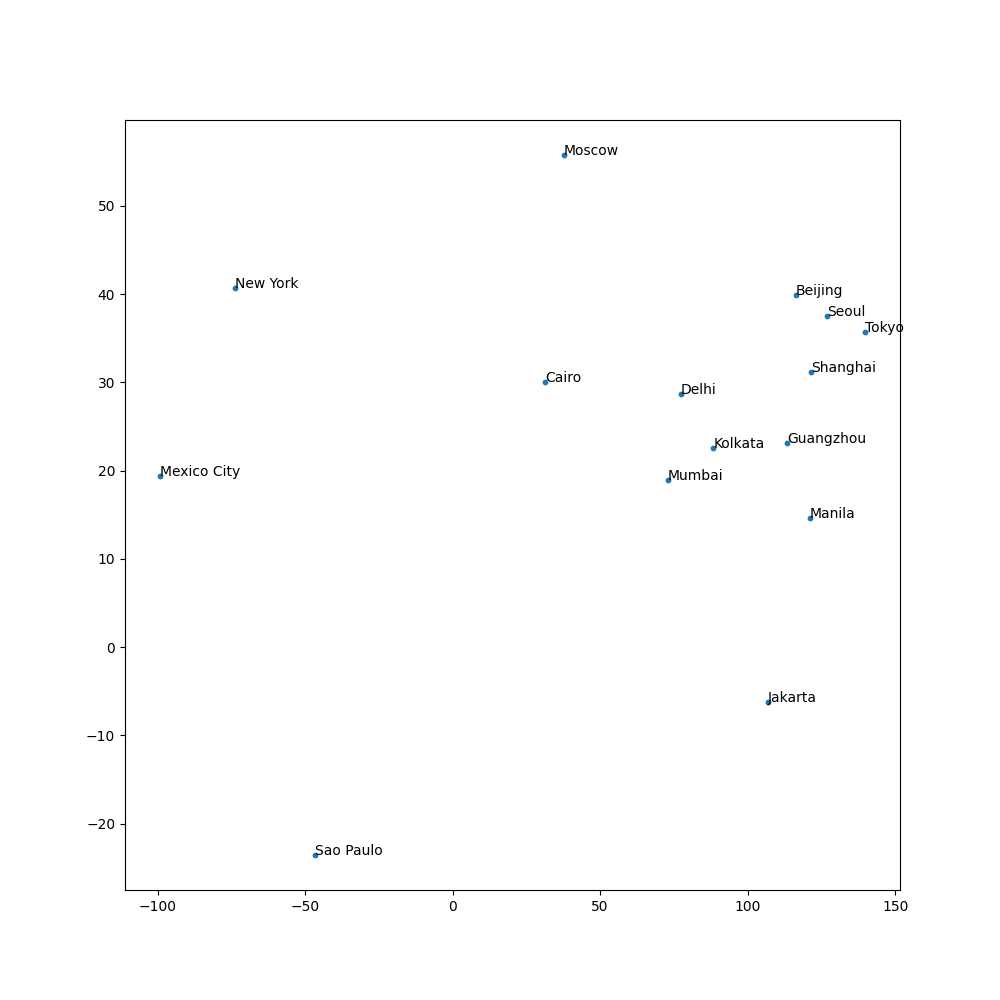
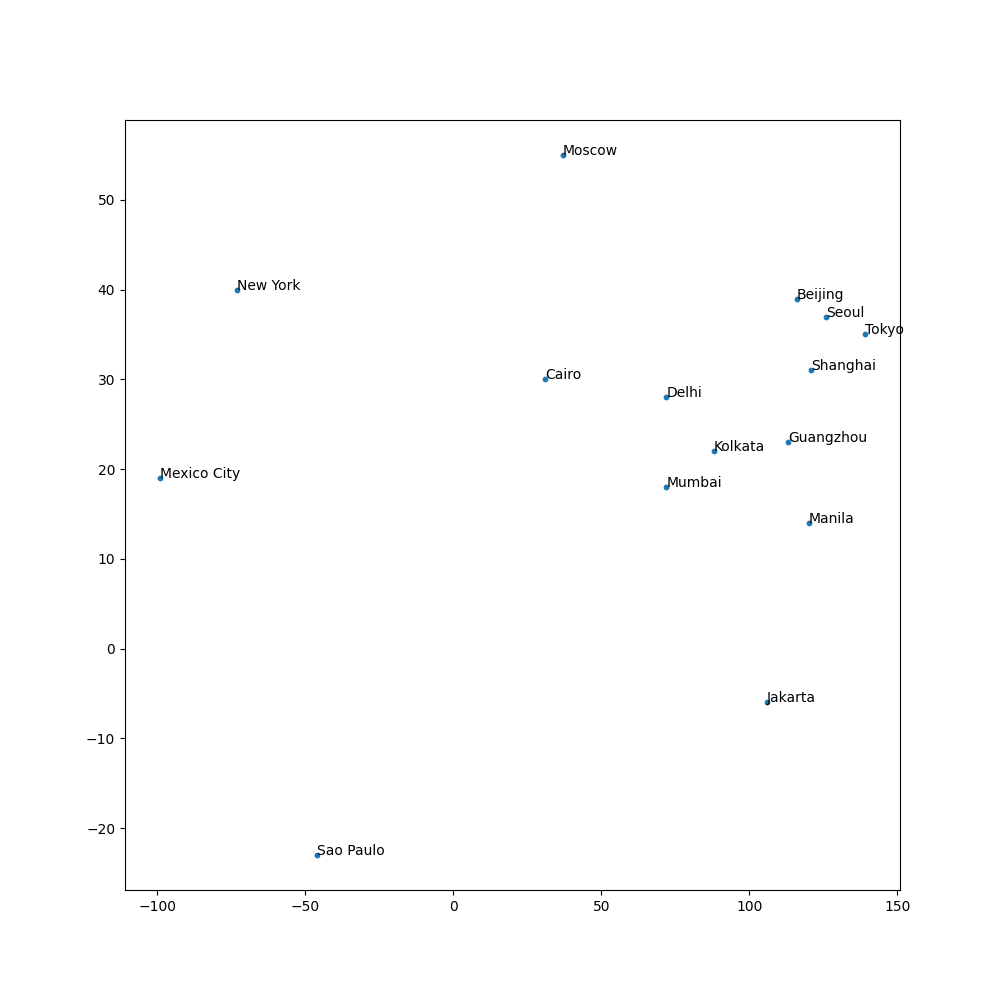
Simple mutation functionality added

diff --git a/genetic_algo.py b/genetic_algo.py
@@ -4,15 +4,21 @@
 import random
 import copy
 
+INIT_POPULATION_SIZE = 20
+MUTATION_PROB = 0.7
+
 def select_parents(population,fitness):
     parents = []
+    fit = [1- w for w in fitness]
     for i in range(len(population)//2):
         parent_pair = random.choices(population,weights=fitness,k=2)
+        while(parent_pair[0] == parent_pair[1]):
+            parent_pair = random.choices(population,weights=fitness,k=2)
         parents.append(parent_pair)
     
     return parents
 
-def crossover(parents):
+def crossoverPairWise(parents):
     # trying to implement two point crossover with replacement (TPXwR)
     # research paper source - https://www.scitepress.org/papers/2015/55902/55902.pdf
     p1 = parents[0]
@@ -87,11 +93,7 @@ def crossover(parents):
                 break
     return [child1,child2]
 
-def fitness_function(population):
-    fitness_values = []
-    fitness_values_scaled = []
-
-    def fitness_function_calc(route):
+def fitness_function_calc(route):
         # given a route, calculate the cost incurred
         
         cost = 0
@@ -100,24 +102,62 @@ def fitness_function(population):
         cost+=route[-1].distanceFrom(route[0])
         return cost
 
+def fitness_function(population):
+    fitness_values = []
+    fitness_values_scaled = []
+
+
     for i in range(len(population)):
         fitness_value = fitness_function_calc(population[i])
-        fitness_values.append(fitness_value)
+        fitness_values.append(1 / fitness_value)
 
     # scale it between 0 to 1
-    weights = [1.0 / w for w in fitness_values]           # Invert all weights
-    sum_weights = sum(weights)
+    sum_weights = sum(fitness_values)
     # print(weights)
-    fitness_values_scaled = [w / sum_weights for w in weights]  # Normalize weights
-    return fitness_values_scaled
+    fitness_values_scaled = [(w / sum_weights) for w in fitness_values]  # Normalize weights
+    return fitness_values
     
     
 def generate_random_route(cities):
     return random.sample(cities,len(cities))
 
 
-def generate_random_population(size,city_list):
+def generate_random_population(size,city_list,src):
+    # generate population such that all individuals begin with src
     population = []
     for i in range(size):
-        population.append(generate_random_route(city_list))
+        route = generate_random_route(city_list)
+        route.remove(src) 
+        route.insert(0,src) # add the source city at the beginning
+        population.append(route)
+    # print(population)
     return population
+
+def generateChildPop(parentPop,fitnessValues):
+    childPop = []
+
+    for i in range(INIT_POPULATION_SIZE//2):
+        parents = select_parents(parentPop,fitnessValues)
+        children = crossoverPairWise(parents[i])
+        childrenMutated1 = mutate(copy.deepcopy(children[0]))
+        childrenMutated2 = mutate(copy.deepcopy(children[1]))
+        childPop.extend([childrenMutated1,childrenMutated2])
+    return childPop
+
+
+
+
+def mutate(population):
+    # simple TWORS mutation which swaps any two cities
+    prob = random.random()
+    if prob<MUTATION_PROB:
+        # print("Mutation occured")
+        i = random.randint(1,len(population)-1)
+        
+        j = random.randint(1,len(population)-1)
+        if i==0 or j==0:
+            print("NOOOOOOOOO")
+        while(i==j):
+            j = random.randint(0,len(population)-1)
+        population[i],population[j] = population[j],population[i]
+    return population 

diff --git a/main.py b/main.py
@@ -1,18 +1,19 @@
-from genetic_algo import generate_random_population,fitness_function, select_parents
+from genetic_algo import fitness_function_calc, generate_random_population,fitness_function, generateChildPop, select_parents,INIT_POPULATION_SIZE
 from input import getInputFromFile
+from models import City
 from plot import plot_cities
-
-INIT_POPULATION_SIZE = 4
+import copy
 
 
 def main():
     """
     Main function
     """
+    src = City("Delhi",int(72.33),int(28.66))
     # Get input from file
     input_data = getInputFromFile()
     # Generate random population
-    population = generate_random_population(INIT_POPULATION_SIZE,input_data)
+    population = generate_random_population(INIT_POPULATION_SIZE,input_data,src)
     # Print population with probabilities
     probs = fitness_function(population)
     maxx = max(probs)
@@ -20,9 +21,19 @@ def main():
         if probs[i]==maxx:
             # print(population[i])
             plot_cities(population[i])
-    print(probs)
-    print(population)
-    print(select_parents(population,probs))
+    # print(probs)
+    # print(population)
+    # print(select_parents(population,probs))
+    # given fitness values, population 
+    # select parents and produce new population until termination condition is met
+    for i in range(100):
+        children = generateChildPop(population,probs)
+        population = copy.deepcopy(children)
+        costList = list(map(fitness_function_calc,children))
+        minCost = min(costList)
+        idx = costList.index(minCost)
+        print("epoch {0}, fitness - {1}, {2}".format(i,max(fitness_function(children)),minCost))
+    print(population[idx])
 
 
 if __name__=="__main__":

diff --git a/input.py b/input.py
@@ -1,12 +1,16 @@
 from models import City
 def getInputFromFile():
     cities = []
-    with open("input.txt","r") as f:
+    with open("input1.txt","r") as f:
         lines = f.readlines()
         for line in lines:
-            name,y,x = line.split(',')
-            city = City(name,float(x),float(y))
-            cities.append(city)
+            try:
+                name,y,x = line.split(',')
+                city = City(name,int(float(x)),int(float(y)))
+                cities.append(city)
+            except:
+                print("Error in line: ",line)
+           
     # for x in cities:
     #     print(x)
     return cities

diff --git a/test.py b/test.py
@@ -11,7 +11,7 @@ def uniquenessTests():
         parents.append(copy.deepcopy(pop))
         random.shuffle(pop)
         parents.append(copy.deepcopy(pop))
-        children = crossover(parents)
+        children = crossoverPairWise(parents)
         if len(set(children[0])) == len(children[0]):
             ct+=1
         if len(set(children[1])) == len(children[1]):
@@ -19,4 +19,6 @@ def uniquenessTests():
     if ct == 100 and ct1 == 100:
         print("Uniqueness test passed")
     else:
-        print("Uniqueness test failed")        
+        print("Uniqueness test failed")    
+
+uniquenessTests()    

diff --git a/models.py b/models.py
@@ -4,7 +4,12 @@ class City:
         self.name = name
         self.__x = x
         self.__y = y
-    
+    def __eq__(self,other):
+        if type(other) is not City:
+            return False
+        # print(self.__x ,other.getX())
+        return self.name == other.name and self.__y == other.getY()
+
     def __str__(self):
         return "{0} located at {1},{2}".format(self.name,self.getX(),self.getY())
     def __repr__(self):
